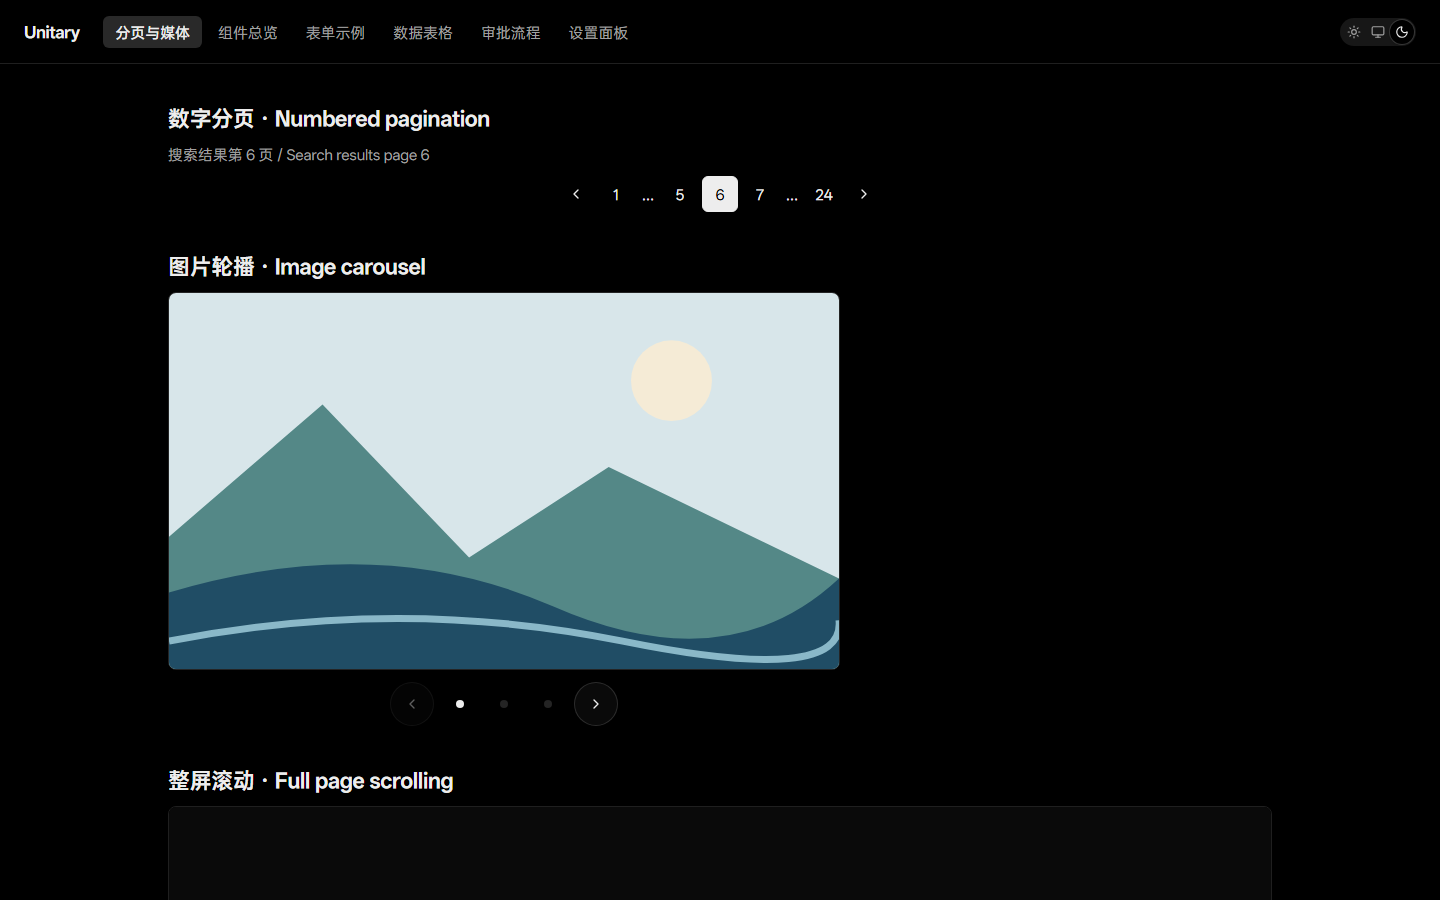
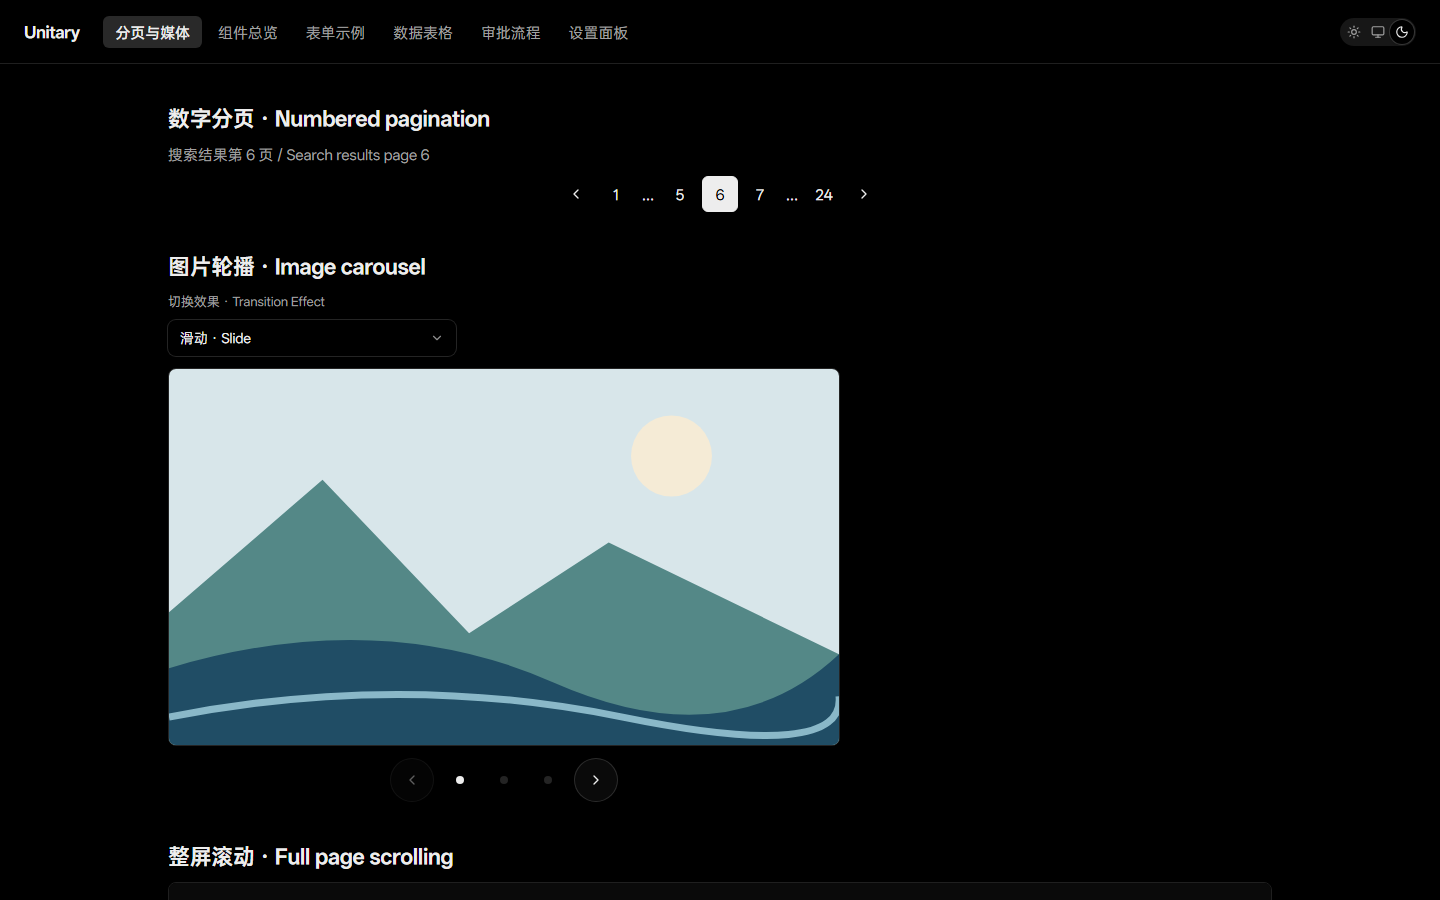
docs(styleguide): demonstrate carousel transition variants

Changed region(s): [[0.0938, 0.3111, 0.5938, 0.9022], [0.0938, 0.9333, 0.3125, 0.9644]]

diff --git a/src/examples/PagedMediaExample.tsx b/src/examples/PagedMediaExample.tsx
@@ -1,12 +1,14 @@
 import { useState } from "react";
 import { NumberedPagination } from "@/components/ui/pagination";
-import { Carousel } from "@/components/ui/carousel";
+import { Carousel, type CarouselVariant } from "@/components/ui/carousel";
+import { Select, SelectItem } from "@/components/ui/select";
 import { FullPageScroller } from "@/components/ui/full-page-scroller";
 import { LazyLoad } from "@/components/ui/lazy-load";
 import { Skeleton } from "@/components/ui/skeleton";
 
 export function PagedMediaExample() {
   const [page, setPage] = useState(6);
+  const [variant, setVariant] = useState<CarouselVariant>("slide");
   return (
     <div className="space-y-10">
       <section className="space-y-3">
@@ -18,7 +20,19 @@ export function PagedMediaExample() {
       </section>
       <section className="space-y-3">
         <h2 className="text-heading-24">图片轮播 · Image carousel</h2>
+        <Select
+          label="切换效果 · Transition effect"
+          value={variant}
+          onValueChange={(value) => setVariant(value as CarouselVariant)}
+          layout={{ width: "min(18rem, 100%)" }}
+        >
+          <SelectItem value="slide">滑动 · Slide</SelectItem>
+          <SelectItem value="fade-linear">线性淡入淡出 · Linear fade</SelectItem>
+          <SelectItem value="fade">缓入缓出 · Eased fade</SelectItem>
+          <SelectItem value="fade-scale">淡入淡出与缩放 · Fade and scale</SelectItem>
+        </Select>
         <Carousel
+          variant={variant}
           className="max-w-2xl"
           images={[
             { src: "/gallery-coast.svg", alt: "海岸 · Coast" },

diff --git a/docs/audits/paged-media-navigation-2026-10-03.md b/docs/audits/paged-media-navigation-2026-10-03.md
@@ -43,3 +43,13 @@ Browser coverage includes light/dark themes, 320/390/767px navigation, narrow an
 - `tests/llm-task-runner.test.ts:227` — TS7006, implicit `any` parameter `arg`.
 
 These errors are separate from the passing source typecheck and production build. / 这两处错误与已通过的源码类型检查、生产构建分别记录。
+
+## Carousel variants follow-up / Carousel 效果扩展
+
+- Adds `CarouselVariant` and `variant`: default `slide`, constant-rate `fade-linear`, eased `fade`, and `fade-scale` (1.04 to 1). / 新增 `CarouselVariant` 与 `variant`：默认滑动、匀速淡入淡出、缓入缓出，以及从 1.04 缩放到 1 的淡入淡出。
+- Effects share existing paging gestures, retain the current image when changed, reverse from current animation progress and respect reduced motion. / 所有效果复用翻页手势，切换效果保留当前图片，中途反转延续当前进度，并支持减少动画。
+- Real browser samples at 20% transition time measured opacity 0.20 for linear fade and approximately 0.08 for ease-in-out. / 浏览器在过渡时长 20% 处实测，线性透明度为 0.20，缓入缓出约为 0.08。
+- Focused component, API, bilingual parity and translation-source checks passed: 4 files, 40 tests, exit 0. / 组件、API、双语与翻译源码检查通过：4 个文件、40 项测试，退出码 0。
+- `pnpm exec playwright test tests/e2e/carousel-variants.spec.ts tests/e2e/paged-media.spec.ts --retries=0 --max-failures=1`: 12 passed, exit 0, covering both themes, 320/1280px layouts, interrupted fades, actual touch and reduced motion. / 12 项测试通过，覆盖双主题、320/1280px 布局、中途反转、真实触摸及减少动画。
+- Production build, native package tests, generated corpus check and screenshot check passed with exit 0. The packed archive contains the new exported variant types and retains 16 fonts and required licenses/notices. / 生产构建、原生包测试、生成文档及截图检查均返回 0；打包产物包含新导出的效果类型，并保留 16 个字体与必要许可及声明。
+- The same two pre-existing `typecheck:tests` errors above remain; no new test type errors were reported. / 测试类型检查仍为上文两处原有错误，没有新增错误。
